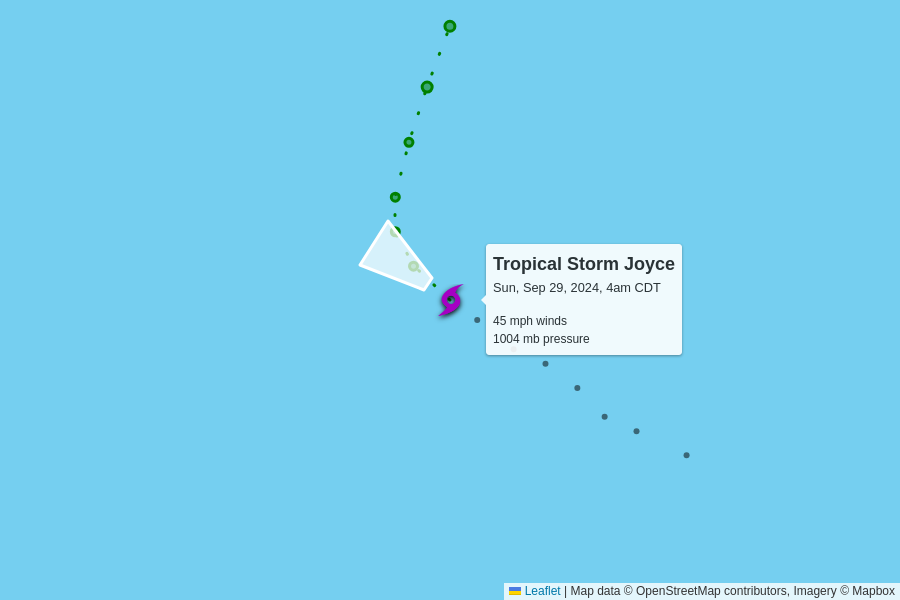
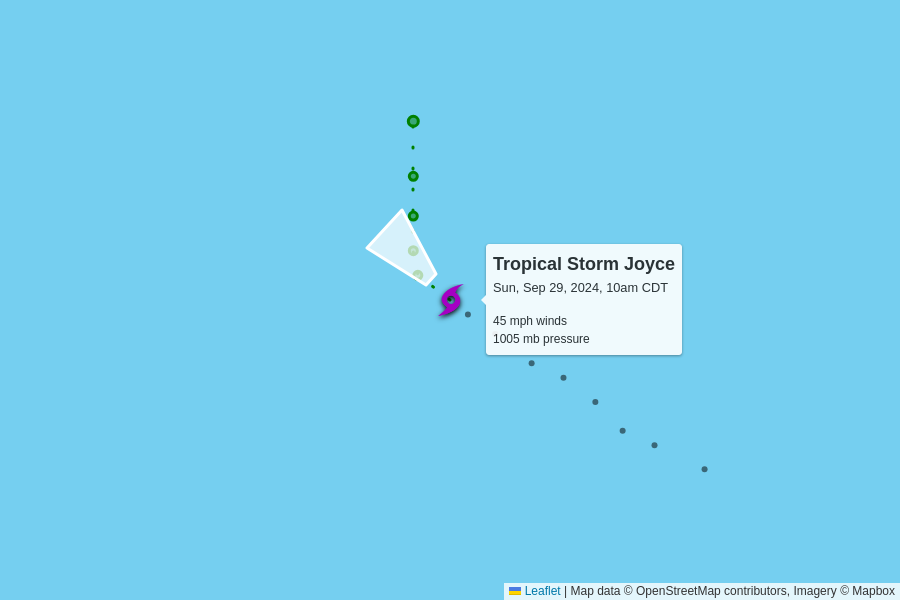
automatic update

diff --git a/docs/index.html b/docs/index.html
@@ -104,7 +104,7 @@
         <td colspan="6" class="storm category-1" >
           <h2>
             Hurricane Isaac - Category 1
-            <p class="updated">last updated <span data-time>2024-09-29T09:00:00.000Z</span></p>
+            <p class="updated">last updated <span data-time>2024-09-29T15:00:00.000Z</span></p>
           </h2>
         </td>
       </tr>
@@ -119,10 +119,10 @@
       </tr>
       <tr>
         <td class="spacer"></td>
-        <td>80 mph<br>0 mph since last update</td>
-        <td>969 mb<br>-3 mb since last update</td>
+        <td>75 mph<br>-5 mph since last update</td>
+        <td>971 mb<br>+2 mb since last update</td>
         <td>
-          13 mph to the northeast
+          12 mph to the northeast
           <br/>
           <span style="display: inline-block; font-size: 1.5em; transform: rotate(45deg);">↑</span>
         </td>
@@ -148,7 +148,7 @@
         <td colspan="6" class="storm category-0" >
           <h2>
             Tropical Storm Joyce
-            <p class="updated">last updated <span data-time>2024-09-29T09:00:00.000Z</span></p>
+            <p class="updated">last updated <span data-time>2024-09-29T15:00:00.000Z</span></p>
           </h2>
         </td>
       </tr>
@@ -164,11 +164,11 @@
       <tr>
         <td class="spacer"></td>
         <td>45 mph<br>0 mph since last update</td>
-        <td>1004 mb<br>0 mb since last update</td>
+        <td>1005 mb<br>+1 mb since last update</td>
         <td>
-          9 mph to the northwest
+          6 mph to the northwest
           <br/>
-          <span style="display: inline-block; font-size: 1.5em; transform: rotate(305deg);">↑</span>
+          <span style="display: inline-block; font-size: 1.5em; transform: rotate(315deg);">↑</span>
         </td>
         <td><a href="https://raw.githubusercontent.com/mgwalker/atlantic-hurricanes/main/data/csv/AL112024.csv">AL112024.csv</a></td>
         <td><a href="https://www.nhc.noaa.gov/archive/2024/JOYCE.shtml?">NHC advisories</a></td>
